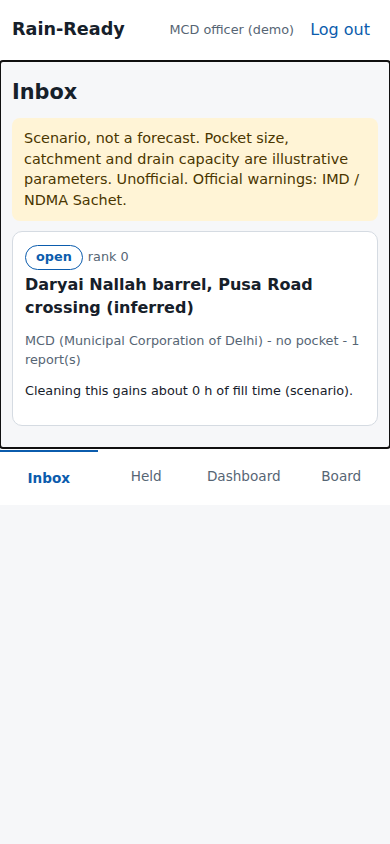
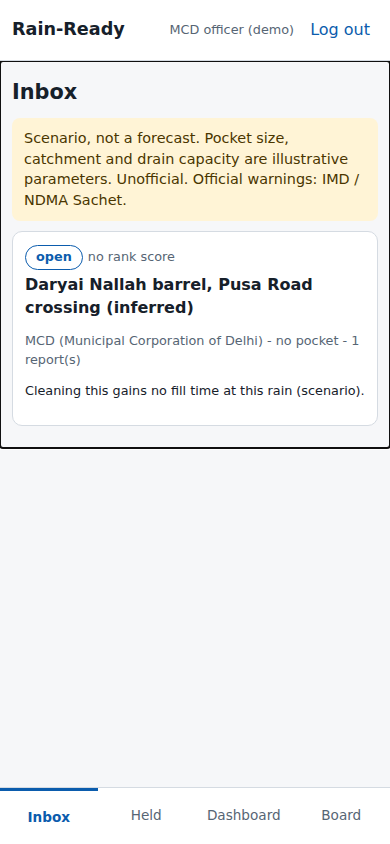
[aarush] web: review follow-ups (bump command, insights labels and dates, empty pockets, actions load error)

diff --git a/rain-ready/web/tests/d5-followups.test.js b/rain-ready/web/tests/d5-followups.test.js
@@ -1,0 +1,42 @@
+// web/tests/d5-followups.test.js — review follow-ups: insights labels, dates, empty pockets, text 4xx, actions load error, zero gain.
+import { test } from "node:test";
+import assert from "node:assert/strict";
+import { createFetchHttp } from "../js/adapters/http-fetch.js";
+import { insightsView, reportView } from "../js/views/insights.view.js";
+import { taskCard } from "../js/views/official.view.js";
+import { actionsPane } from "../js/controllers/actions.js";
+import { when } from "../js/ui/format.js";
+import { BANNED } from "../js/ui/copy.js";
+
+const text = (h) => h.replace(/<[^>]+>/g, " ").replace(/\s+/g, " ");
+const ins = (evidence) => ({ banner: "b", insights: [{ id: "x", text: "t", why: "w", evidence }] });
+const R = { generated_at: "2026-10-10T10:00:00", banner: "b", range_note: "r", tasks_by_agency: [], held_reports: 0, confirmed_cleans_7d: 0, top_drains: [], pockets_by_level: {} };
+
+test("insights evidence: friendly labels and units, values as the API gives them", () => {
+  const t = text(insightsView(ins({ silt_estimate: 0.4, time_to_fill_h: 3.2, days_overdue: 2, days_since_clean: 40, reports: 3, bounced: 1 })));
+  assert.match(t, /silt estimate \(0 to 1\): 0\.4/); assert.match(t, /time to fill: about 3\.2 h/);
+  assert.match(t, /days overdue: 2/); assert.match(t, /days since last clean: 40/); assert.match(t, /resident reports: 3/); assert.match(t, /tasks handed back: 1/);
+  assert.doesNotMatch(t, /time to fill h|silt estimate:/);
+});
+test("report generated_at uses the date formatter", () => {
+  const h = text(reportView(R));
+  assert.ok(h.includes(`Generated ${when(R.generated_at)}.`)); assert.doesNotMatch(h, /T10:00:00/);
+});
+test("report with no pockets says so", () => assert.match(text(reportView(R)), /No pockets/));
+test("http text:true with a 4xx JSON body raises ApiError(detail, status)", async () => {
+  const http = createFetchHttp({ fetchImpl: async () => ({ ok: false, status: 403, text: async () => "ignored", json: async () => ({ detail: "role cannot do this" }) }) });
+  await assert.rejects(http.request("GET", "/api/x", { text: true }), e => e.status === 403 && e.message === "role cannot do this");
+});
+test("actions pane shows an errBox when the first load fails", async () => {
+  const pane = { innerHTML: "", querySelector: () => null };
+  await actionsPane(pane, { services: { dashboard: { actions: async () => { throw new Error("Cannot reach the server."); } } } });
+  assert.match(pane.innerHTML, /role="alert"[^>]*>Cannot reach the server\./);
+});
+test("a zero rank score or zero gain reads as a plain phrase, not a figure", () => {
+  const t0 = { id: 1, status: "open", rank_score: 0, gain_h: 0, asset_name: "A", agency_name: "MCD", report_count: 1 };
+  const h = text(taskCard(t0));
+  assert.doesNotMatch(h, /rank 0|about 0 h/); assert.match(h, /gains no fill time at this rain/);
+  const t1 = text(taskCard({ ...t0, rank_score: 2.34, gain_h: 1.5 }));
+  assert.match(t1, /rank 2\.3/); assert.match(t1, /gains about 1\.5 h/);
+  assert.doesNotMatch(h, BANNED); assert.doesNotMatch(h, /verified|proof|unspoofable/i);
+});

diff --git a/rain-ready/web/js/views/insights.view.js b/rain-ready/web/js/views/insights.view.js
@@ -1,22 +1,24 @@
 // web/js/views/insights.view.js — rule-based insights and the ward report sections. Pure.
-import { esc, hrRange } from "../ui/format.js";
+import { esc, hrRange, hrs, when } from "../ui/format.js";
 import { banner } from "../ui/components.js";
 import { LEVEL, EMPTY } from "../ui/copy.js";
 
-const evid = (e) => Object.entries(e || {}).map(([k, v]) => `${esc(k.replace(/_/g, " "))}: ${esc(v)}`).join("; ");
+// Evidence labels with units; values are printed as the API gives them (fill time goes through hrs).
+const EVID = { silt_estimate: ["silt estimate (0 to 1)"], time_to_fill_h: ["time to fill", hrs], days_overdue: ["days overdue"], days_since_clean: ["days since last clean"],
+  reports: ["resident reports"], bounced: ["tasks handed back"], owner_source: ["owner source"], data_source: ["data source"] };
+const evid = (e) => Object.entries(e || {}).map(([k, v]) => { const [label, f] = EVID[k] || [k.replace(/_/g, " ")]; return `${esc(label)}: ${esc(f ? f(v) : v)}`; }).join("; ");
 const card = (i) => `<div class="card"><p>${esc(i.text)}${/placeholder data/i.test(i.text) ? ' <span class="chip">Placeholder data</span>' : ""}</p>
   <p class="small">Why: ${esc(i.why)}<br>Evidence: ${evid(i.evidence)}</p></div>`;
 
 export const insightsView = (d) => `${banner(d.banner)}<h2>Insights</h2>
   ${d.insights.length ? d.insights.map(card).join("") : `<p class="muted">${EMPTY.insights}</p>`}`;
 
-export const reportView = (r) => `<h2>Ward report</h2>${banner(r.banner)}<p class="small muted">Generated ${esc(r.generated_at)}. ${esc(r.range_note)}</p>
+export const reportView = (r) => `<h2>Ward report</h2>${banner(r.banner)}<p class="small muted">Generated ${esc(when(r.generated_at))}. ${esc(r.range_note)}</p>
   <div class="card"><h3>Open tasks by agency</h3>${r.tasks_by_agency.length
     ? `<ul>${r.tasks_by_agency.map(a => `<li>${esc(a.agency_name)}: ${esc(a.open)} open, ${esc(a.overdue)} overdue</li>`).join("")}</ul>` : "<p>No open tasks.</p>"}
   <p>Held for review: <strong>${esc(r.held_reports)}</strong></p>
   <p>Cleans confirmed by a resident in the last 7 days: <strong>${esc(r.confirmed_cleans_7d)}</strong></p></div>
   <div class="card"><h3>Top drains by fill time gained</h3>${r.top_drains.length
     ? `<ol>${r.top_drains.map(d => `<li>${esc(d.name)}: ${esc(hrRange(d.gain_h_low, d.gain_h_high))} (scenario). Owner: ${esc(d.agency_name)}</li>`).join("")}</ol>` : "<p>No drain would add fill time.</p>"}</div>
-  <div class="card"><h3>Pockets by level</h3><ul>${Object.keys(LEVEL).filter(l => r.pockets_by_level[l])
-    .map(l => `<li><strong>${esc(LEVEL[l][1])}</strong>: ${r.pockets_by_level[l].map(esc).join(", ")}</li>`).join("")}</ul></div>
+  <div class="card"><h3>Pockets by level</h3>${(lv => lv.length ? `<ul>${lv.map(l => `<li><strong>${esc(LEVEL[l][1])}</strong>: ${r.pockets_by_level[l].map(esc).join(", ")}</li>`).join("")}</ul>` : "<p>No pockets.</p>")(Object.keys(LEVEL).filter(l => (r.pockets_by_level[l] || []).length))}</div>
   <button id="dl" class="primary">Download report (Markdown)</button>`;

diff --git a/rain-ready/web/js/views/official.view.js b/rain-ready/web/js/views/official.view.js
@@ -1,5 +1,5 @@
 // web/js/views/official.view.js — inbox and task page. Pure.
-import { esc, hrs, when } from "../ui/format.js";
+import { esc, hrs, when, gainPhrase, rankPhrase } from "../ui/format.js";
 import { chip, banner, photos, flagList } from "../ui/components.js";
 import { KINDS, FIELD_RULE, EVENT, EMPTY } from "../ui/copy.js";
 
@@ -10,11 +10,11 @@ const lastEvent = (t, name) => [...(t.events || [])].reverse().find(e => e.event
 export const disputeNote = (t) => lastEvent(t, "disputed")?.note || "";
 
 export const taskCard = (t, note = "") => `<a class="card tasklink" href="#/task/${esc(t.id)}">
-  <div>${chip(t.status)} ${overdue(t)} <span class="muted small">rank ${esc(Math.round(t.rank_score * 10) / 10)}</span></div>
+  <div>${chip(t.status)} ${overdue(t)} <span class="muted small">${esc(rankPhrase(t.rank_score))}</span></div>
   <h3>${esc(t.asset_name)}</h3>
   <p class="small muted">${esc(t.agency_name)} - ${esc(t.pocket_name || "no pocket")} - ${esc(t.report_count)} report(s)</p>
   ${t.status === "disputed" ? `<p class="small"><strong>Resident's note:</strong> ${esc(note || "(no note)")}</p>` : ""}
-  <p class="small">Cleaning this gains ${esc(hrs(t.gain_h))} of fill time (scenario).</p></a>`;
+  <p class="small">Cleaning this ${esc(gainPhrase(t.gain_h))} (scenario).</p></a>`;
 
 export const inboxView = ({ tasks, banner: b }, notes = {}) => `<h1>Inbox</h1>${banner(b)}` +
   (tasks.length ? tasks.map(t => taskCard(t, notes[t.id])).join("") : `<p class="muted">${EMPTY.inbox}</p>`);
@@ -33,7 +33,7 @@ function redoBanner(t) {
 export const taskDetail = (t, { banner: b, back }) => `<p><a class="back" href="${esc(back)}">Back</a></p>
   <h1>${esc(t.asset_name)}</h1><div>${chip(t.status)} ${overdue(t)}</div>
   <p>Owner: <strong>${esc(t.agency_name || "No owner found")}</strong>${t.owner_source ? `<br><span class="small muted">Source: ${esc(t.owner_source)}</span>` : ""}</p>
-  ${banner(b)}${redoBanner(t)}<p>${esc(t.pocket_name || "")} - cleaning this gains ${esc(hrs(t.gain_h))} of fill time.</p>
+  ${banner(b)}${redoBanner(t)}<p>${esc(t.pocket_name || "")} - cleaning this ${esc(gainPhrase(t.gain_h))}.</p>
   ${t.due_at ? `<p class="small muted">Due ${esc(when(t.due_at))}</p>` : ""}
   <p class="rule">${esc(FIELD_RULE)}</p><div id="actions"></div>
   <h2>Reports (${t.incidents.length})</h2>

diff --git a/rain-ready/web/index.html b/rain-ready/web/index.html
@@ -20,7 +20,8 @@
 <div id="toast" class="toast" role="status" aria-live="polite" hidden></div>
 <script src="https://cdnjs.cloudflare.com/ajax/libs/leaflet/1.9.4/leaflet.js"></script>
 <!-- Cache-busting: Cloudflare caches /css and /js for 4 h. On every deploy bump ?v= here on the css link, on main.js and on EVERY
-     line of the import map (a module import has no query of its own, the map adds it). web/tests/cache-bust.test.js fails if one differs. -->
+     line of the import map (a module import has no query of its own, the map adds it). web/tests/cache-bust.test.js fails if one differs.
+     Bump command (from the repo root): sed -i 's/?v=1/?v=2/g' rain-ready/web/index.html -- the test guards it. -->
 <script type="importmap">
 {"imports": {
   "./js/adapters/camera-media.js": "./js/adapters/camera-media.js?v=1",

diff --git a/rain-ready/web/js/ui/format.js b/rain-ready/web/js/ui/format.js
@@ -6,3 +6,6 @@ export function when(iso) {
 }
 const h1 = (h) => h < 10 ? Math.round(h * 10) / 10 : Math.round(h);
 export const hrRange = (lo, hi) => lo == null || hi == null ? "not available" : `about ${h1(lo)} to ${h1(hi)} h`;
+// Zero reads as a phrase, not a figure. Other values keep the plain format.
+export const gainPhrase = (h) => h === 0 ? "gains no fill time at this rain" : "gains " + hrs(h) + " of fill time";
+export const rankPhrase = (r) => r === 0 ? "no rank score" : "rank " + Math.round(r * 10) / 10;

diff --git a/rain-ready/web/js/controllers/actions.js b/rain-ready/web/js/controllers/actions.js
@@ -13,5 +13,5 @@ export async function actionsPane(pane, ctx) {
       catch (e) { if (my === seq) pane.querySelector("#alist").innerHTML = errBox(e); }
     };
   };
-  await load(10);
+  try { await load(10); } catch (e) { pane.innerHTML = errBox(e); }
 }
